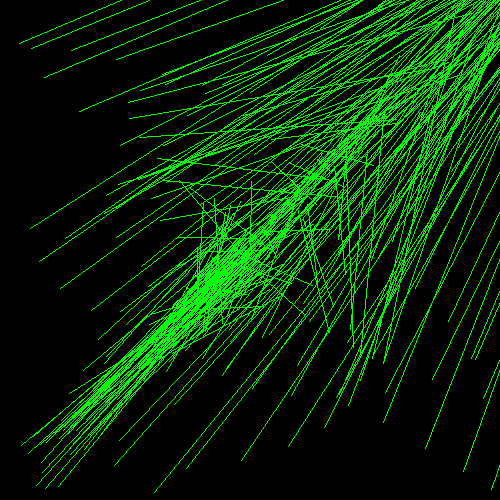
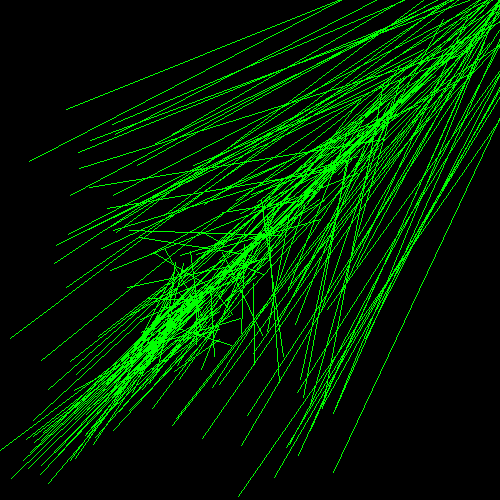
tweak

diff --git a/main.py b/main.py
@@ -33,13 +33,13 @@ print_matrix(matrix2)
 
 clear_screen(screen)
 matrix = new_matrix(0)
-x, y, z = 250, 250, 1
-for i in range(250):
-	add_edge(matrix, x, y, z, int( i * math.sin(i/math.pi)) + 250, int( i * math.cos(i)) + 250 , 1)
+x, y, z = 200, 200, 1
+for i in range(200):
+	add_edge(matrix, x, y, z, int( i * math.sin(i/math.pi)) + 200, int( i * math.cos(i)) + 200 , 1)
 	x = int( i*math.pi ) + random.randrange(50)
 	y = int( i*math.pi ) + random.randrange(50)
 	z = 1
-add_edge(matrix, x, y, z, 250, 250, 1)
+add_edge(matrix, x, y, z, 200, 200, 1)
 draw_lines(matrix,screen,color)
 
 save_extension(screen,"img.png")
